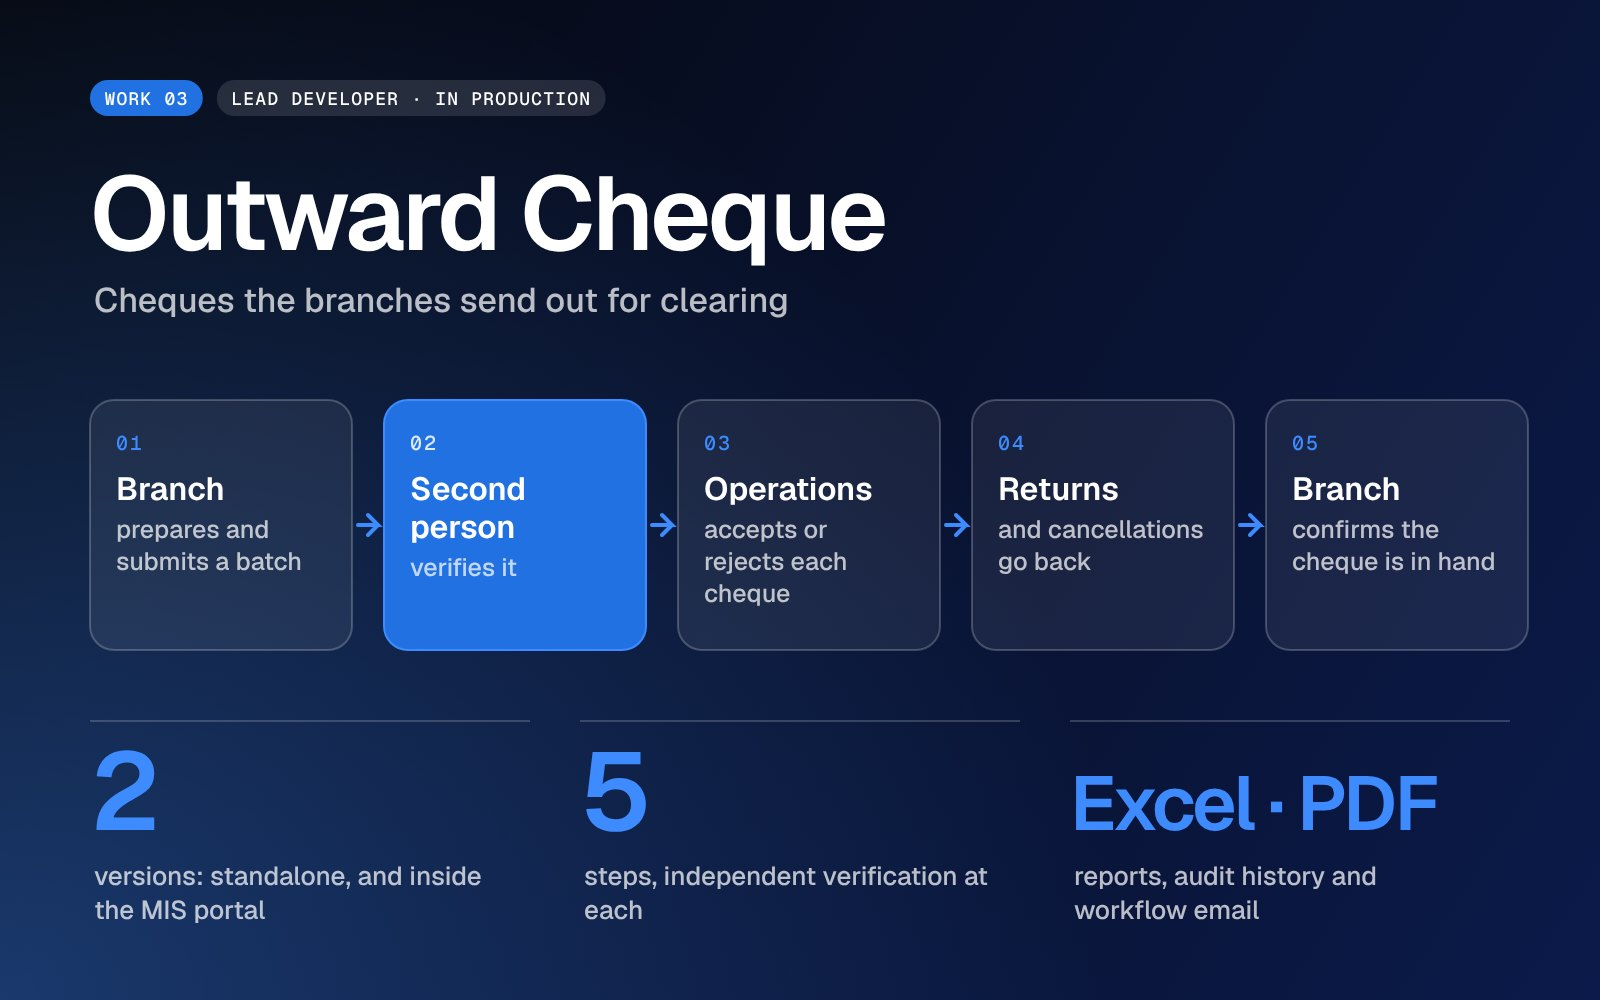
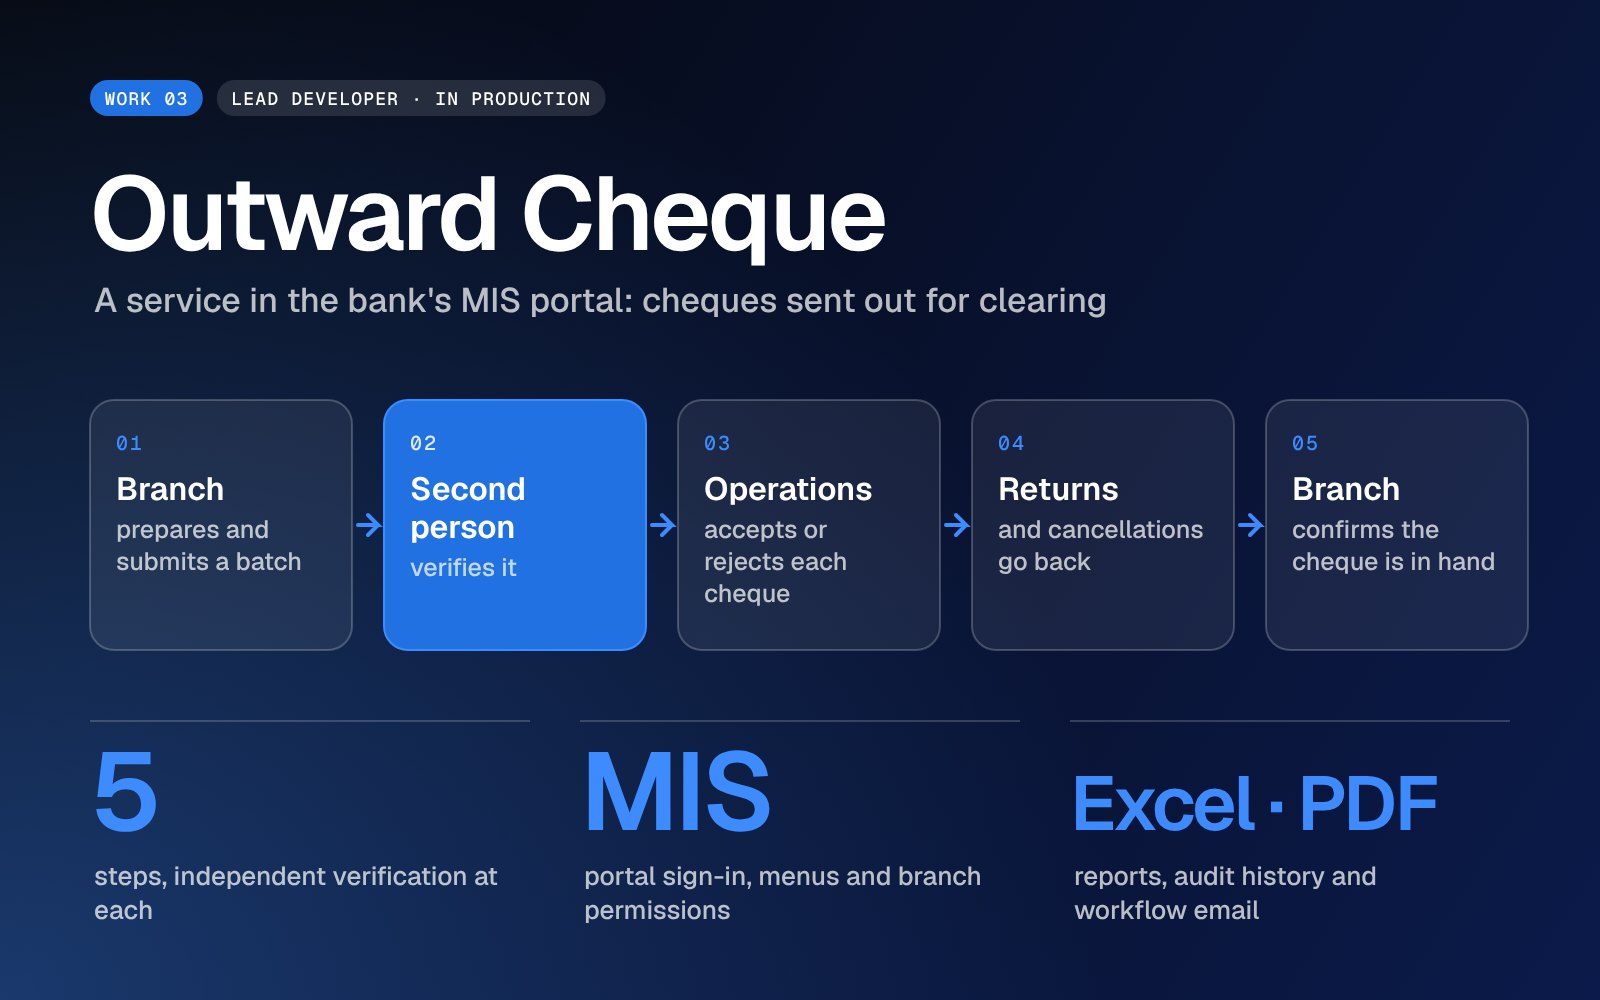
Outward Cheque is a service of the live MIS portal; drop the discarded standalone version
Claude-Session: https://claude.ai/code/session_01J5ujDau75MWowtAxMdf1kJ

diff --git a/README.md b/README.md
@@ -26,7 +26,7 @@ The three banking systems are internal, so their code isn't public. Each one is 
   <img src="./assets/work-connect-hub.jpg" width="49%" alt="Connect Hub: a complaint and issue workflow across four teams; 12 weeks from mockup to production handover, 6 roles, 3 regulatory report types automated.">
 </p>
 <p>
-  <img src="./assets/work-outward-cheque.jpg" width="49%" alt="Outward Cheque: five steps from the branch to Operations and back, independent verification at each, in two versions.">
+  <img src="./assets/work-outward-cheque.jpg" width="49%" alt="Outward Cheque, a service in the bank's MIS portal: five steps from the branch to Operations and back, independent verification at each.">
   <img src="./assets/work-buildnest.jpg" width="49%" alt="BuildNest: a request goes from the workspace, through your approval and the gateway, to the model provider; a desktop connector does the file work.">
 </p>
 
@@ -38,9 +38,9 @@ Branch staff collect property, vehicle and land tax through the web application 
 A bank-wide platform for customer complaints and issues. Any staff member raises a case, the owning department resolves it, the Call Centre verifies with the customer, and a central unit administers and reports. Issues carry their own deadlines in working or calendar days, and the central unit has a complaint dashboard and a full change history for audit. **12 weeks** from mockup to production handover, with six roles in one workflow and three regulatory report types automated.<br>
 <sub>.NET 8 · Angular 18 · PostgreSQL · Docker · nginx</sub>
 
-**Outward Cheque** · lead developer · in production<br>
-The bank's process for cheques its branches send out for clearing. A branch prepares and submits a batch, a second person verifies it, Operations accepts or rejects each cheque, and returns and cancellations go back to the branch until it confirms it has the cheque in hand. Built in **two versions** from one design: a standalone application, and a module of the bank's internal MIS portal using its sign-in and branch permissions. Excel and PDF reports, a full audit history and workflow email.<br>
-<sub>.NET 8 / 10 · Angular 18 / 21 · PostgreSQL · Docker</sub>
+**Outward Cheque** (MIS portal) · lead developer · in production<br>
+A service in the bank's live MIS portal, the internal platform that hosts a growing set of business services under one sign-in. Outward Cheque handles the cheques branches send out for clearing. A branch prepares and submits a batch, a second person verifies it, Operations accepts or rejects each cheque, and returns and cancellations go back to the branch until it confirms it has the cheque in hand. It runs inside the portal, using its sign-in, menus and branch permissions. Excel and PDF reports, a full audit history and workflow email.<br>
+<sub>.NET 8 · Angular 18 (module federation) · PostgreSQL · Docker</sub>
 
 **BuildNest** · personal project<br>
 A workspace in the browser for working with language models on your own files and projects: see every tool the model calls, approve commands before they run, and review the diff of every file it changes. A desktop connector does the file, shell and browser work on your own computer. Its companion, **BuildNest Gateway**, keeps provider credentials on a server, issues separate client keys, and tracks usage and cost on a dashboard.<br>
